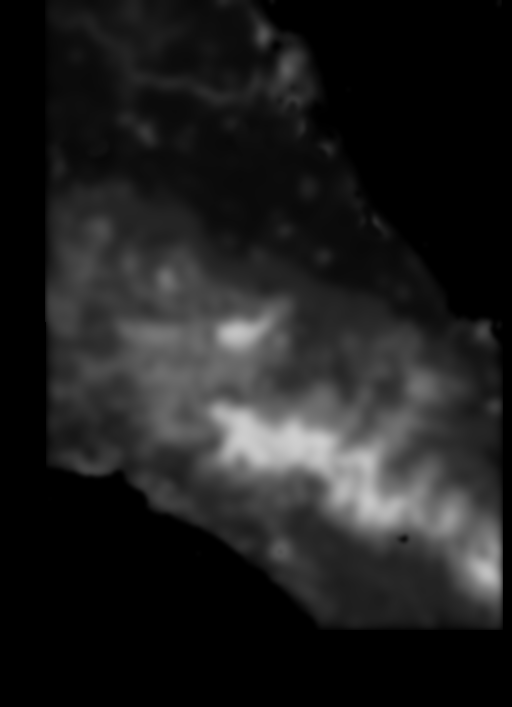
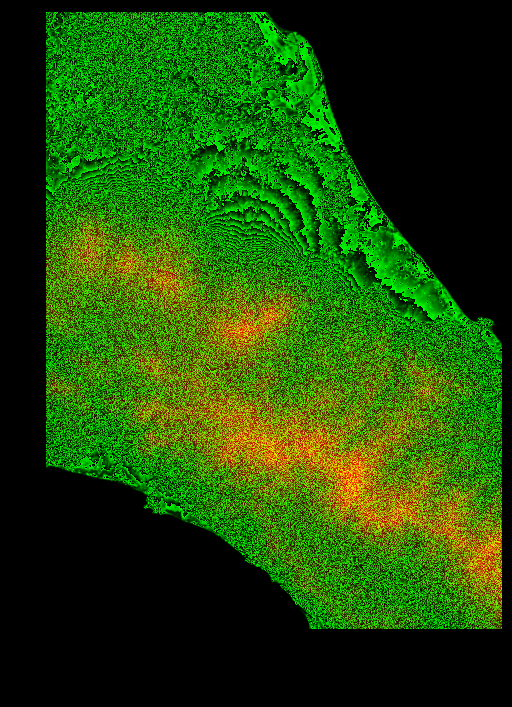
Vuelo: relieve real Copernicus DEM 90 m alineado con la carta
Claude-Session: https://claude.ai/code/session_019iEvRWQmd9Sra3sYz9LrJg

diff --git a/mesa-2027/vuelo.html b/mesa-2027/vuelo.html
@@ -49,7 +49,7 @@ canvas.arrastre{cursor:grabbing}
 .sinwebgl{position:fixed;inset:0;z-index:9;display:grid;place-items:center;text-align:center;padding:24px;font-size:12px;letter-spacing:.08em;background:var(--fondo)}
 </style>
 
-<div class="placa" id="p-izq"><b>Vuelo sobre la carta</b><span>Prueba three.js · relieve aproximado desde los colores de elevación de la carta</span></div>
+<div class="placa" id="p-izq"><b>Vuelo sobre la carta</b><span>Prueba three.js · relieve real Copernicus DEM 90 m</span></div>
 <dl class="placa" id="p-der"><dt>Lat</dt><dd id="lat">—</dd><dt>Lon</dt><dd id="lon">—</dd><dt>Alt</dt><dd id="alt">—</dd><dt>Rumbo</dt><dd id="rum">—</dd></dl>
 <div id="marcas"></div>
 <aside id="ficha" aria-live="polite"></aside>
@@ -73,7 +73,7 @@ const T=[
  {id:"obra-gris",nombre:"Obra Gris",lugar:"Cordillera de Talamanca",x:2010,y:2720,nube:true},
  {id:"taller",nombre:"Taller",lugar:"Valle de El General",x:1440,y:2746,nube:true}
 ];
-const WD=100, HD=100*CARTA.h/CARTA.w, EXAG=3.2;
+const WD=100, HD=100*CARTA.h/CARTA.w, EXAG=2.6;
 const aMundo=(x,y)=>({x:(x/CARTA.w-.5)*WD,z:(y/CARTA.h-.5)*HD});
 const aCarta=(X,Z)=>({x:(X/WD+.5)*CARTA.w,y:(Z/HD+.5)*CARTA.h});
 const gms=(v,h)=>{const a=Math.abs(v),g=Math.floor(a);let m=Math.round((a-g)*60);return String(m===60?g+1:g).padStart(2,"0")+"°"+String(m===60?0:m).padStart(2,"0")+"'"+h};
@@ -94,12 +94,12 @@ let alt=null, aw=0, ah=0;
 function alturaEn(X,Z){ if(!alt) return 0; const u=Math.min(aw-1,Math.max(0,(X/WD+.5)*(aw-1))), v=Math.min(ah-1,Math.max(0,(Z/HD+.5)*(ah-1)));
   const x0=Math.floor(u),y0=Math.floor(v),x1=Math.min(aw-1,x0+1),y1=Math.min(ah-1,y0+1),fx=u-x0,fy=v-y0;
   const g=(x,y)=>alt[y*aw+x]; const m=(g(x0,y0)*(1-fx)+g(x1,y0)*fx)*(1-fy)+(g(x0,y1)*(1-fx)+g(x1,y1)*fx)*fy;
-  return m/255*3800/1640*EXAG; }
+  return m/1640*EXAG; }
 const cargarImg=src=>new Promise((ok,mal)=>{const i=new Image();i.onload=()=>ok(i);i.onerror=mal;i.src=src});
 let terreno;
 Promise.all([cargarImg("assets/carta/relieve.png"),cargarImg(innerWidth>=760?"assets/carta/carta-2576.jpg":"assets/carta/carta-1932.jpg")]).then(([rel,img])=>{
   const c=document.createElement("canvas");aw=c.width=rel.width;ah=c.height=rel.height;const g=c.getContext("2d");g.drawImage(rel,0,0);
-  const d=g.getImageData(0,0,aw,ah).data; alt=new Uint8Array(aw*ah); for(let i=0;i<aw*ah;i++) alt[i]=d[i*4];
+  const d=g.getImageData(0,0,aw,ah).data; alt=new Float32Array(aw*ah); for(let i=0;i<aw*ah;i++) alt[i]=(d[i*4]*256+d[i*4+1])/65535*3800; // metros, 16 bits en rojo+verde
   const segX=movil?180:255, segY=Math.round(segX*HD/WD);
   const geo=new THREE.PlaneGeometry(WD,HD,segX,segY); geo.rotateX(-Math.PI/2);
   const p=geo.attributes.position; for(let i=0;i<p.count;i++){p.setY(i,alturaEn(p.getX(i),p.getZ(i)))} geo.computeVertexNormals();
